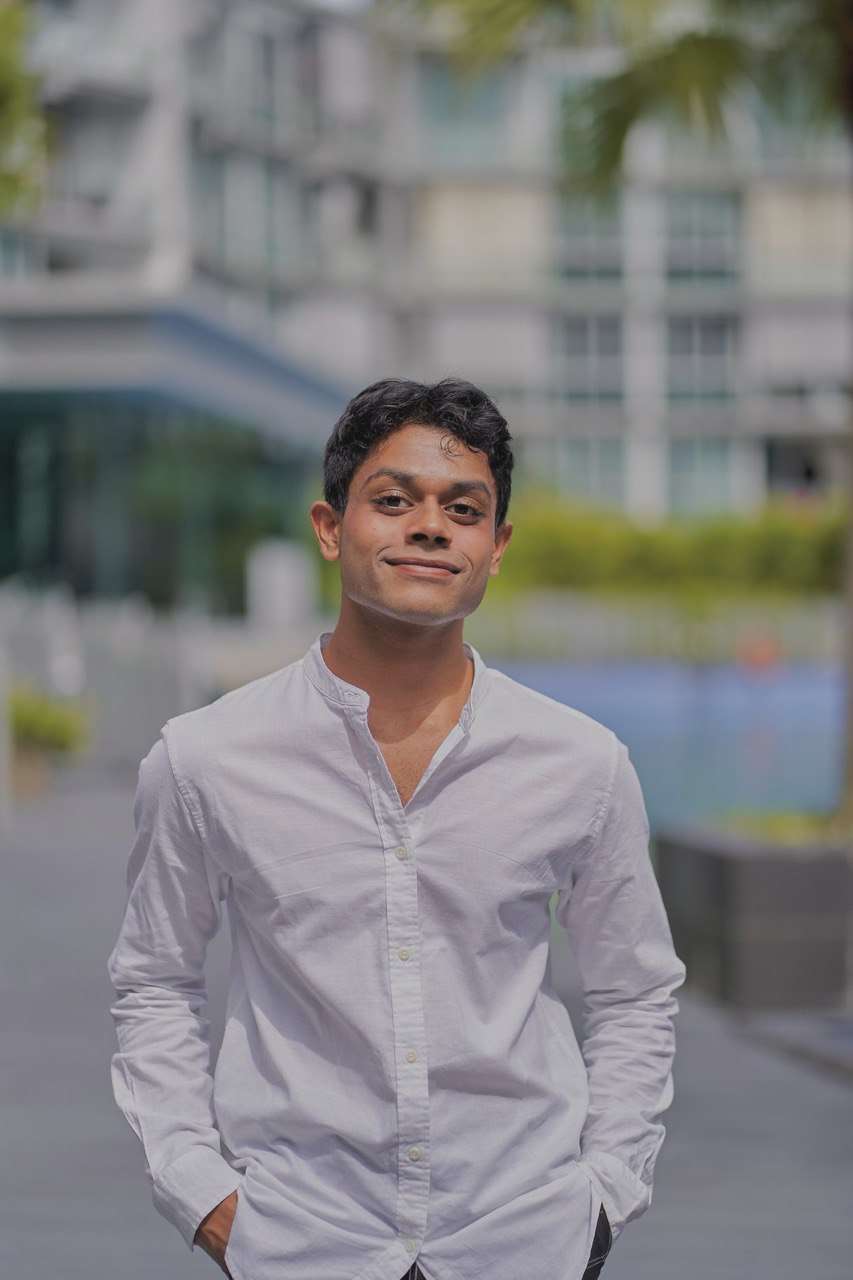
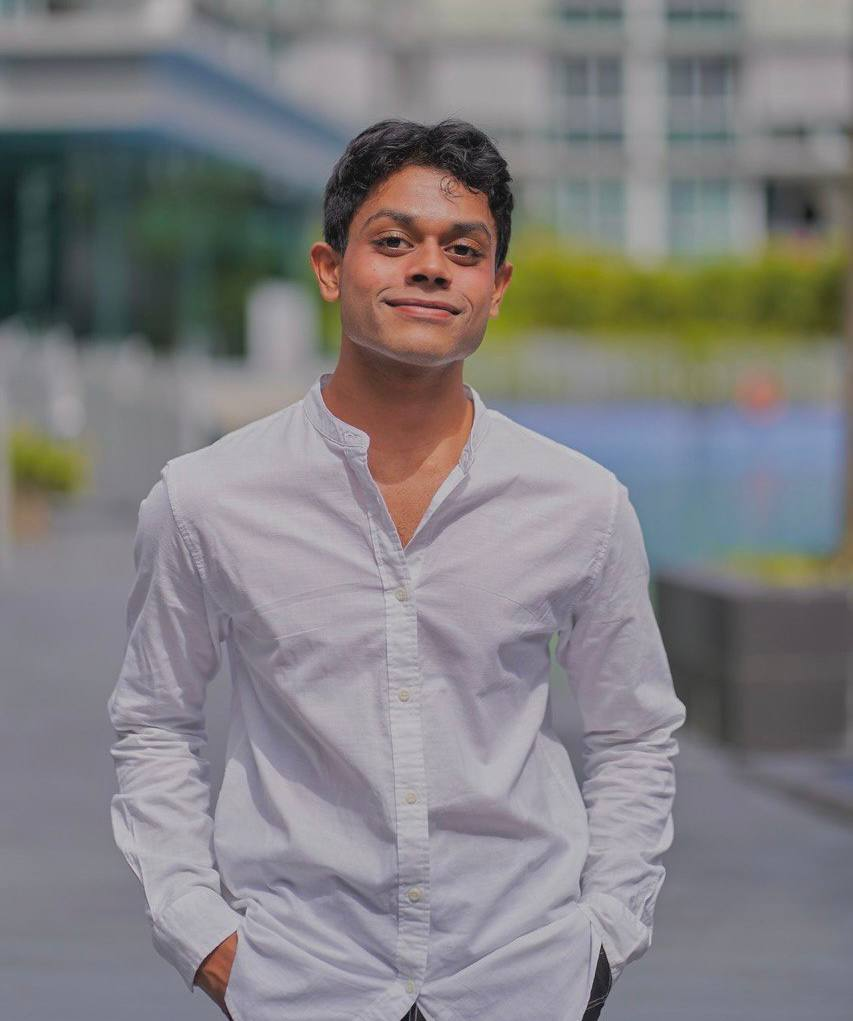
updated

diff --git a/src/widgets/layout/footer.jsx b/src/widgets/layout/footer.jsx
@@ -7,23 +7,26 @@ const year = new Date().getFullYear();
 export function Footer({ title, description, socials, menus, copyright }) {
   return (
     <footer className="bg-black text-white relative px-4 pb-6">
-      {/* keep the container but cap the width a bit for nicer mobile centering */}
-      <div className="container mx-auto max-w-screen-lg">
-        <div className="flex flex-wrap pt-6 text-center lg:text-left gap-12 lg:gap-0 justify-center">
-          {/* Company Info - Hidden on mobile */}
-          <div className="hidden lg:block w-full px-4 lg:w-4/12">
+      <div className="container mx-auto max-w-screen-xl">
+        {/* wrapper */}
+        <div className="pt-6 flex flex-col lg:flex-row lg:items-start lg:justify-between gap-12 text-center lg:text-left">
+          
+          {/* Company Info - hidden on mobile */}
+          <div className="hidden lg:block px-4 lg:basis-4/12">
             <Typography variant="h4" className="mb-4" color="white">
               {title}
             </Typography>
-            <Typography className="font-normal text-white lg:w-4/5">
-              {description}
+            <Typography className="font-normal text-white lg:w-4/5 text-lg">
+              Data Management, Redef
+              <span className="text-red-500 font-semibold">AI</span>
+              ned
             </Typography>
           </div>
 
           {/* Useful Links */}
-          <div className="mx-auto grid grid-cols-1 sm:grid-cols-2 gap-8 sm:gap-12 place-items-center text-center lg:text-left">
+          <div className="mx-auto lg:mx-0 grid grid-cols-1 sm:grid-cols-2 gap-8 sm:gap-12 place-items-center lg:place-items-start text-center lg:text-left">
             {menus.map(({ name, items }) => (
-              <div key={name} className="w-max">
+              <div key={name} className="w-max lg:w-auto">
                 <Typography
                   variant="small"
                   color="white"
@@ -52,7 +55,7 @@ export function Footer({ title, description, socials, menus, copyright }) {
           </div>
 
           {/* Contact Details */}
-          <div className="w-full px-4 lg:w-4/12 max-w-md mx-auto text-center lg:text-left">
+          <div className="px-4 w-full lg:basis-4/12 max-w-md lg:max-w-none mx-auto lg:mx-0 text-center lg:text-left">
             <Typography
               variant="small"
               color="white"
@@ -122,11 +125,11 @@ export function Footer({ title, description, socials, menus, copyright }) {
 }
 
 Footer.defaultProps = {
-  title: "Mantra Data Consultants",
+  title: "MantraDATA Consultants",
   description: "Data Management, RedefAIned",
   menus: [
     {
-      name: "useful links",
+      name: "Links to Other Pages",
       items: [
         { name: "Home", path: "/home" },
         { name: "Contact Us", path: "/contactus" },

diff --git a/src/data/end-to-end.js b/src/data/end-to-end.js
@@ -5,9 +5,17 @@ import {
   AcademicCapIcon,
   ArrowPathIcon,
   ArrowsPointingInIcon,
+  Cog8ToothIcon
 } from "@heroicons/react/24/solid";
+import { Handshake } from "lucide-react";
 
 export const steps = [
+  {
+    title: "Pre-Sales Stage - Consultation",
+    icon: Handshake,
+    description:
+      "Our approach goes beyond selling. From the earliest stages of engagement, we work closely with you to understand your needs, present tailored solutions, and ensure our efforts deliver sustainable, long-term productivity.",
+  },
   {
     title: "Current Systems Assessment",
     icon: MagnifyingGlassIcon,
@@ -19,6 +27,12 @@ export const steps = [
     icon: CloudIcon,
     description:
       "We evaluate technical prerequisites like server capacity, cloud adoption readiness, and data governance—ensuring secure, efficient integration of Knovos solutions.",
+  },
+  {
+    title: "Hassle-free Implementation",
+    icon: Cog8ToothIcon,
+    description:
+      "We collaborate with your team to implement the agreed solution seamlessly and efficiently, ensuring they are fully engaged, well-trained, and equipped with both the functional and infrastructure knowledge needed to maximize its benefits.",
   },
   {
     title: "Seamless Onboarding & Team Alignment",
@@ -42,7 +56,7 @@ export const steps = [
     title: "Customer Success, Not Just Support",
     icon: ArrowsPointingInIcon,
     description:
-      "We focus on delivering ROI, aligning platform use with business goals, and driving long-term engagement and stakeholder satisfaction.",
+      "We are committed to ensuring you gain maximum value from our solutions, providing ongoing support and updates to the latest versions for sustained success.",
   },
 ];
 

diff --git a/src/data/team-data.js b/src/data/team-data.js
@@ -1,8 +1,8 @@
 export const teamData = [
   {
-    img: "/img/team-1.jpeg",
-    name: "Rama Saravana Kumar",
-    position: "Founder & Legal Tech Consultant",
+    img: "/img/saravana-avatar.png",
+    name: "Rama Saravana",
+    position: "Founder cum Lead Consultant",
     socials: [
       {
         color: "blue",
@@ -10,13 +10,13 @@ export const teamData = [
         url: "https://www.linkedin.com/in/rama-saravana-kumar/"
       },
     ],
-    tagline: "Bridging legal workflows with AI-powered solutions",
-    description: "Rama brings 5+ years of paralegal and legal tech experience, leading strategy and implementation for legal and ESG teams in Singapore."
+    tagline: "Works with you end-to end to achieve your goals",
+    description: "Rama brings 20+ years of paralegal and IT experience, leading strategy and implementation for legal and ESG teams in Singapore."
   },
   {
     img: "/img/team-2.jpeg",
     name: "Rama Sethu",
-    position: "Infrastructure & Systems Integration Lead",
+    position: "External Expert Advisor",
     socials: [
       {
         color: "blue",
@@ -24,7 +24,7 @@ export const teamData = [
         url: "https://www.linkedin.com/in/ramamoorthy-sethukumar-55154647/"
       },
     ],
-    tagline: "Engineering robust legal tech backbones",
+    tagline: "Infrastructure & Systems Integration",
     description: "A seasoned infrastructure expert, Sethu ensures our clients' systems are optimized, secure, and integration-ready, both on-premise or in the cloud."
   },{
     img: "/img/aravind-avatar.jpg",

diff --git a/src/pages/about-us.jsx b/src/pages/about-us.jsx
@@ -53,12 +53,12 @@ export function AboutUs() {
         <div className="grid grid-cols-1 md:grid-cols-3 gap-8">
           {[
             {
-              title: "Our Mission",
-              text: "Empower legal and ESG organizations with technology and insight to streamline compliance, enhance performance, and safeguard information.",
-            },
-            {
               title: "Our Vision",
               text: "To be Southeast Asia’s trusted partner for digital legal and ESG transformation — built on trust, clarity, and innovation.",
+            },
+            {
+              title: "Our Mission",
+              text: "Empower legal and ESG organizations with technology and insight to streamline compliance, enhance performance, and safeguard information.",
             },
             {
               title: "Our Goal",

diff --git a/src/widgets/cards/team-card.jsx b/src/widgets/cards/team-card.jsx
@@ -13,12 +13,13 @@ export function TeamCard({ img, name, position, tagline, description, socials })
     >
       {/* Avatar */}
       <div className="relative w-40 h-40 mt-8 mb-4 shrink-0">
-        <img
-          src={img}
-          alt={name}
-          className="absolute inset-[8px] object-cover w-[calc(100%-16px)] h-[calc(100%-16px)] rounded-xl z-20"
-        />
-      </div>
+  <img
+    src={img}
+    alt={name}
+    className="absolute inset-[8px] object-cover object-top w-[calc(100%-16px)] h-[calc(100%-16px)] rounded-xl z-20"
+  />
+</div>
+
 
       {/* Info section */}
       <div className="flex flex-col items-center text-center px-4 flex-1 w-full min-h-[250px] justify-start gap-1">

diff --git a/src/pages/solutions.jsx b/src/pages/solutions.jsx
@@ -29,7 +29,7 @@ export function Solutions() {
         <div className="relative h-[400px] md:h-[400px] flex items-center justify-center text-center px-4">
           <div>
             <h1 className="text-5xl font-extrabold bg-gradient-to-r from-red-600 via-orange-400 to-yellow-300 bg-clip-text text-transparent mt-20 mb-10">
-              Knovos Solutions
+              Our Solutions
             </h1>
             <p className="text-white text-lg max-w-4xl mx-auto">
               As an implementation partner for Knovos in Singapore and Southeast Asia, MantraDATA offers localized expertise for a powerful suite of legal tech solutions.

diff --git a/src/data/features-data.js b/src/data/features-data.js
@@ -1,9 +1,8 @@
 import {
-  ChatBubbleBottomCenterTextIcon,
   Cog8ToothIcon,
-  UserIcon,
   ArrowPathIcon,
 } from "@heroicons/react/24/solid";
+import { Handshake } from "lucide-react";
 
 export const featuresData = [
   {
@@ -16,7 +15,7 @@ export const featuresData = [
   {
     color: "gray",
     title: "Official Partner of Knovos",
-    icon: UserIcon,
+    icon: Handshake,
     description:
       "As a certified partner of Knovos, we bring you cutting-edge solutions for eDiscovery, legal project management, compliance, and more — tailored to your needs",
   },

diff --git a/src/routes.jsx b/src/routes.jsx
@@ -17,7 +17,7 @@ export const routes = [
     element: <EndToEndSupport />,
   },
   {
-    name: "Knovos Solutions",
+    name: "Our Solutions",
     path: "/solutions",
     element: <Solutions />,
   },
